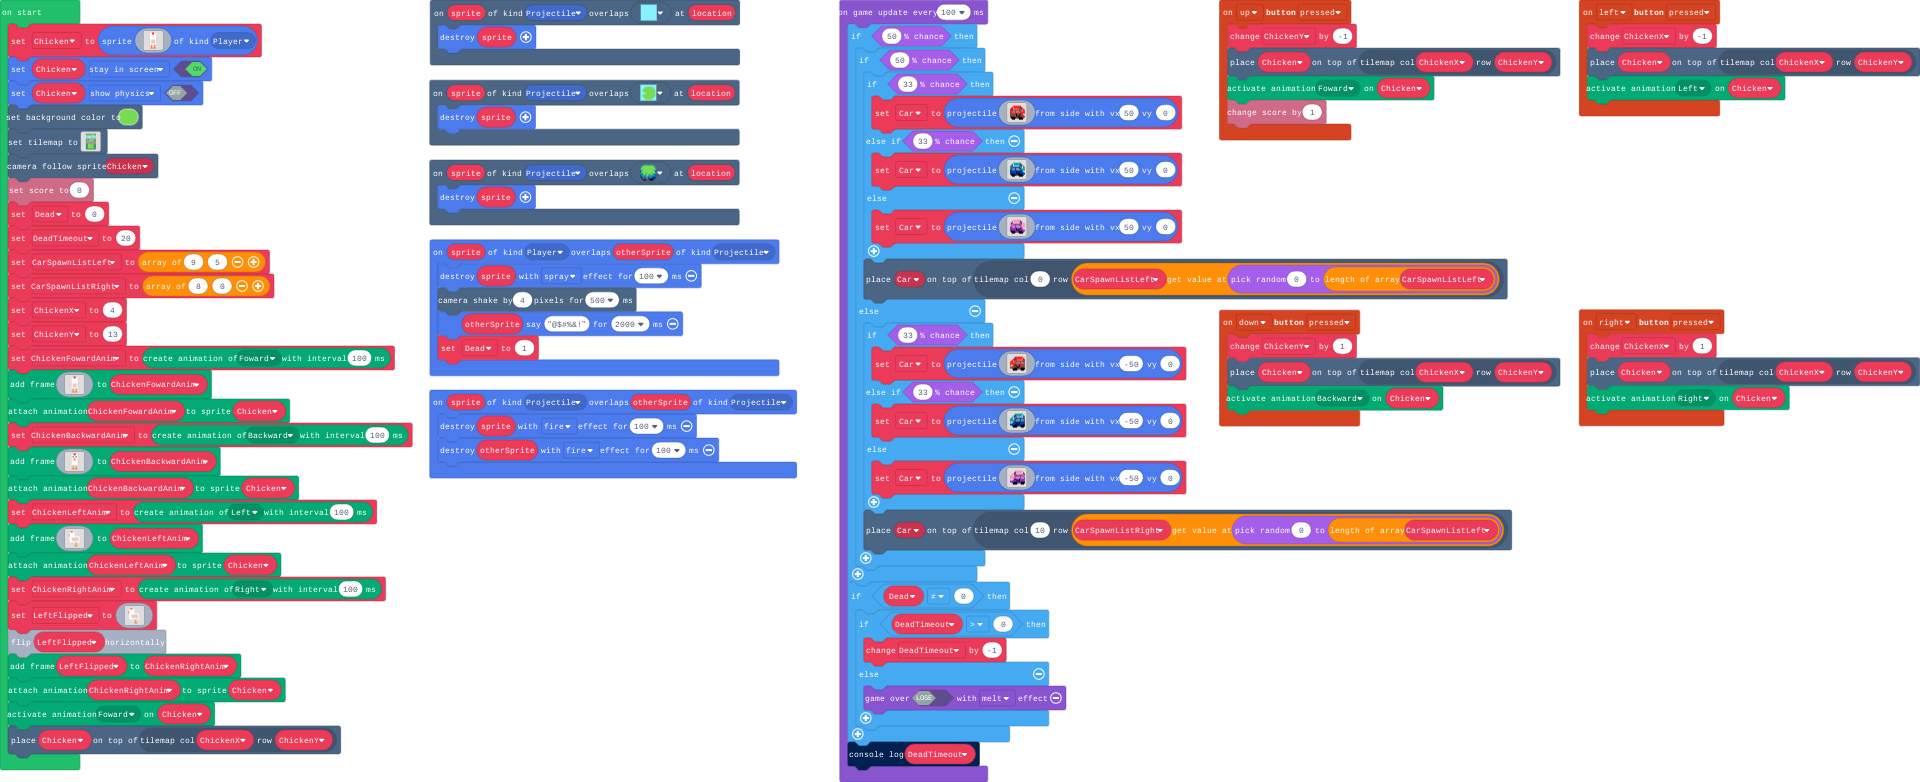
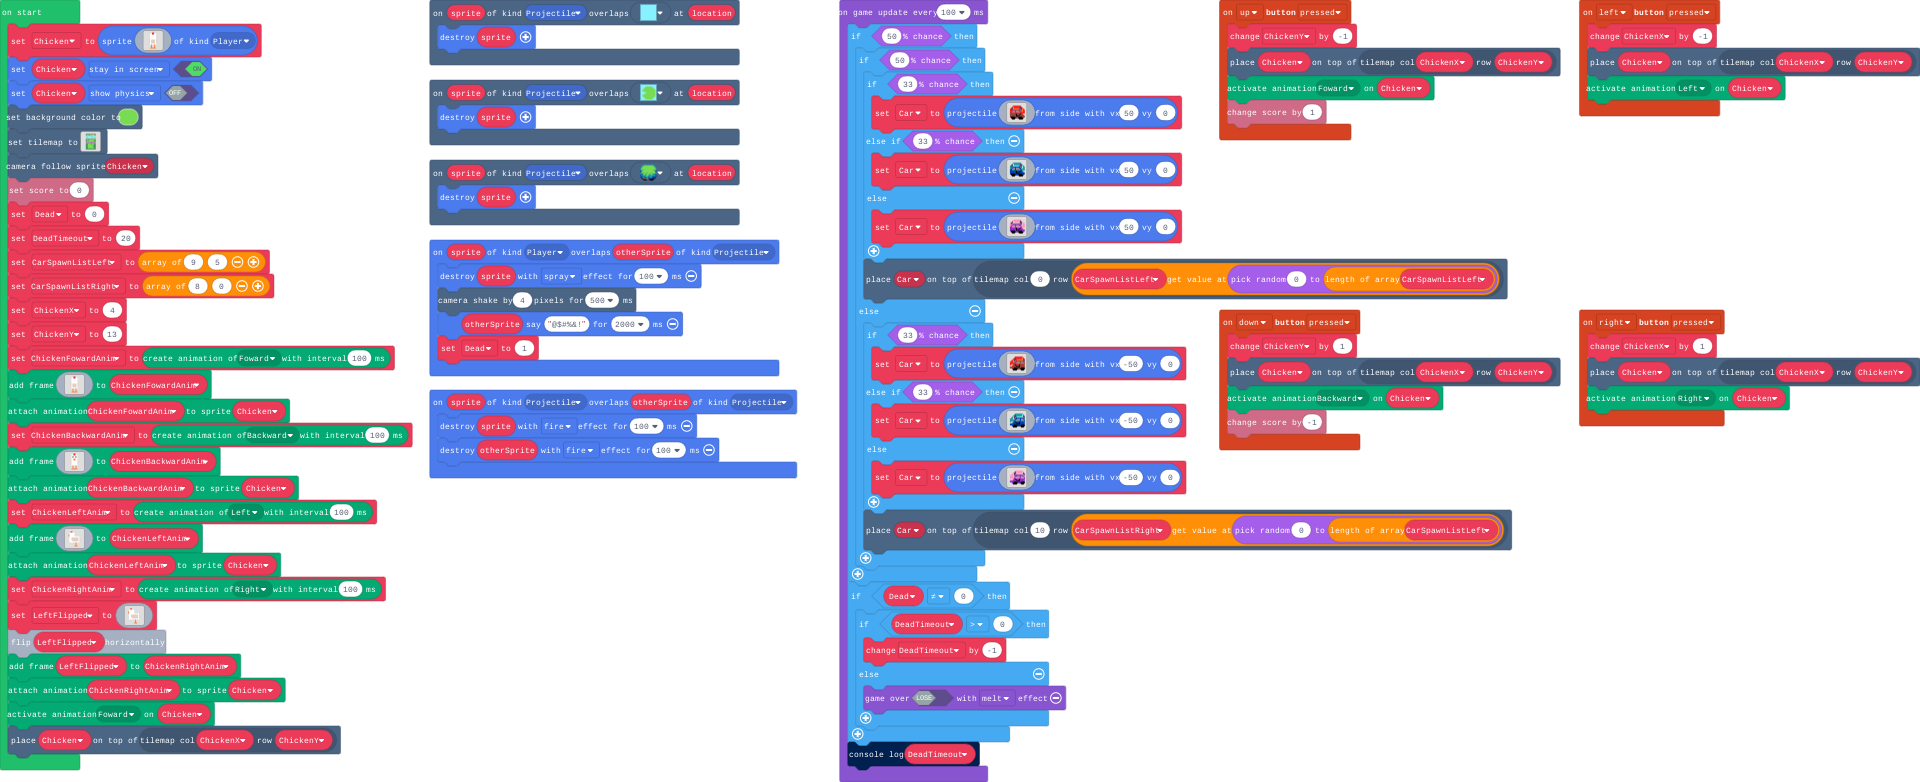
Update main.blocks, main.ts

diff --git a/main.ts b/main.ts
@@ -94,6 +94,7 @@ controller.down.onEvent(ControllerButtonEvent.Pressed, function () {
     ChickenY += 1
     tiles.placeOnTile(Chicken, tiles.getTileLocation(ChickenX, ChickenY))
     animation.setAction(Chicken, ActionKind.Backward)
+    info.changeScoreBy(-1)
 })
 scene.onOverlapTile(SpriteKind.Projectile, myTiles.tile3, function (sprite, location) {
     sprite.destroy()
